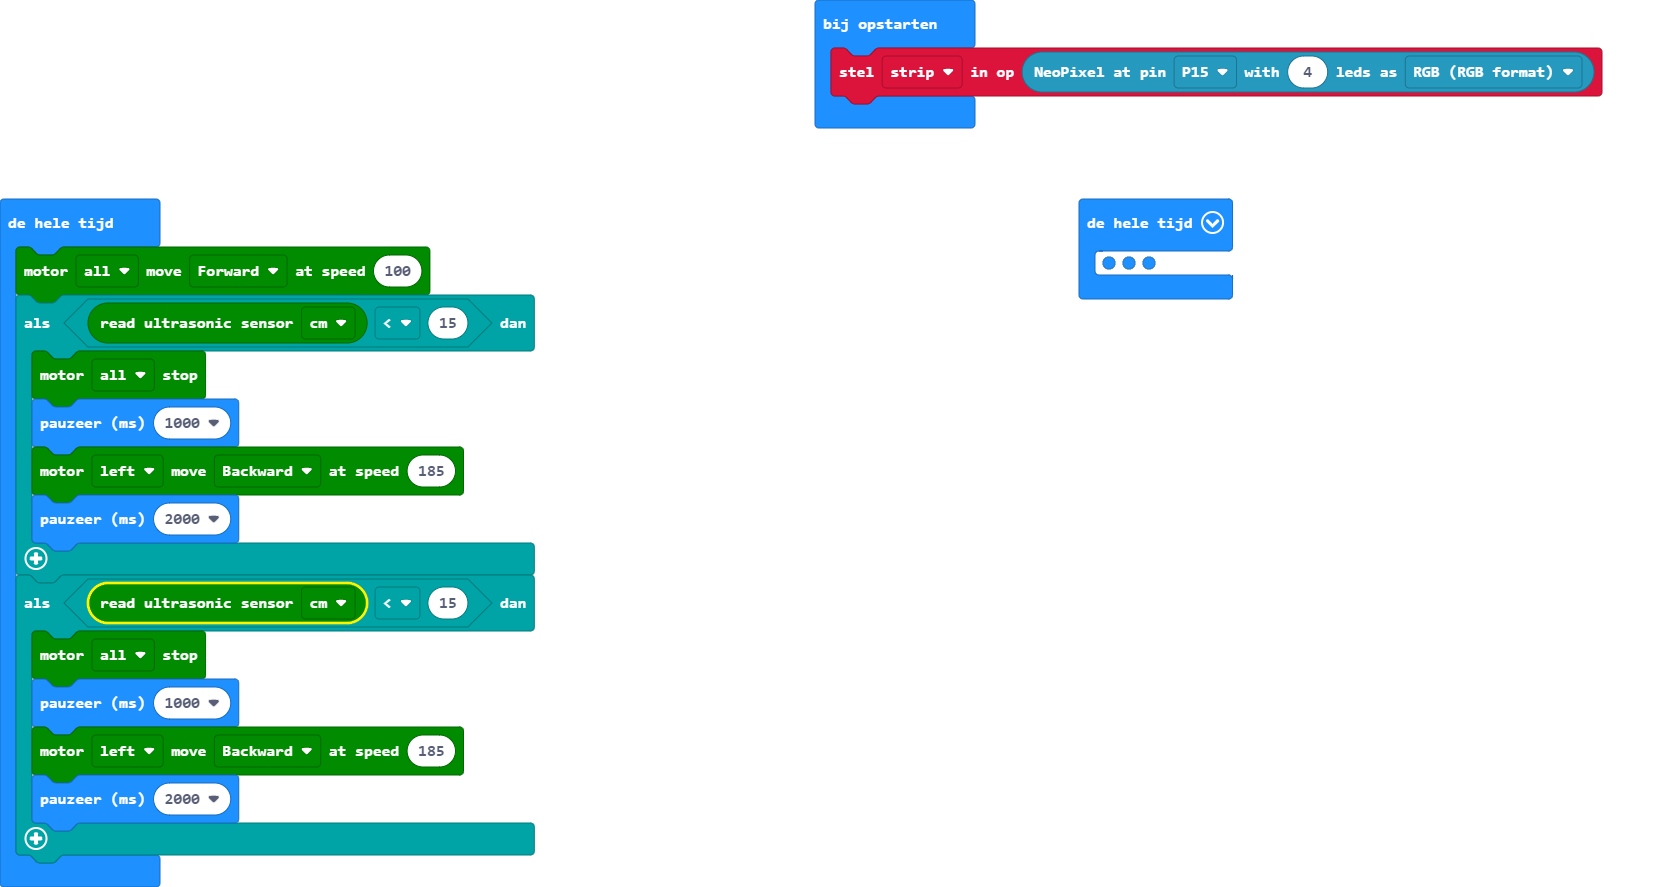
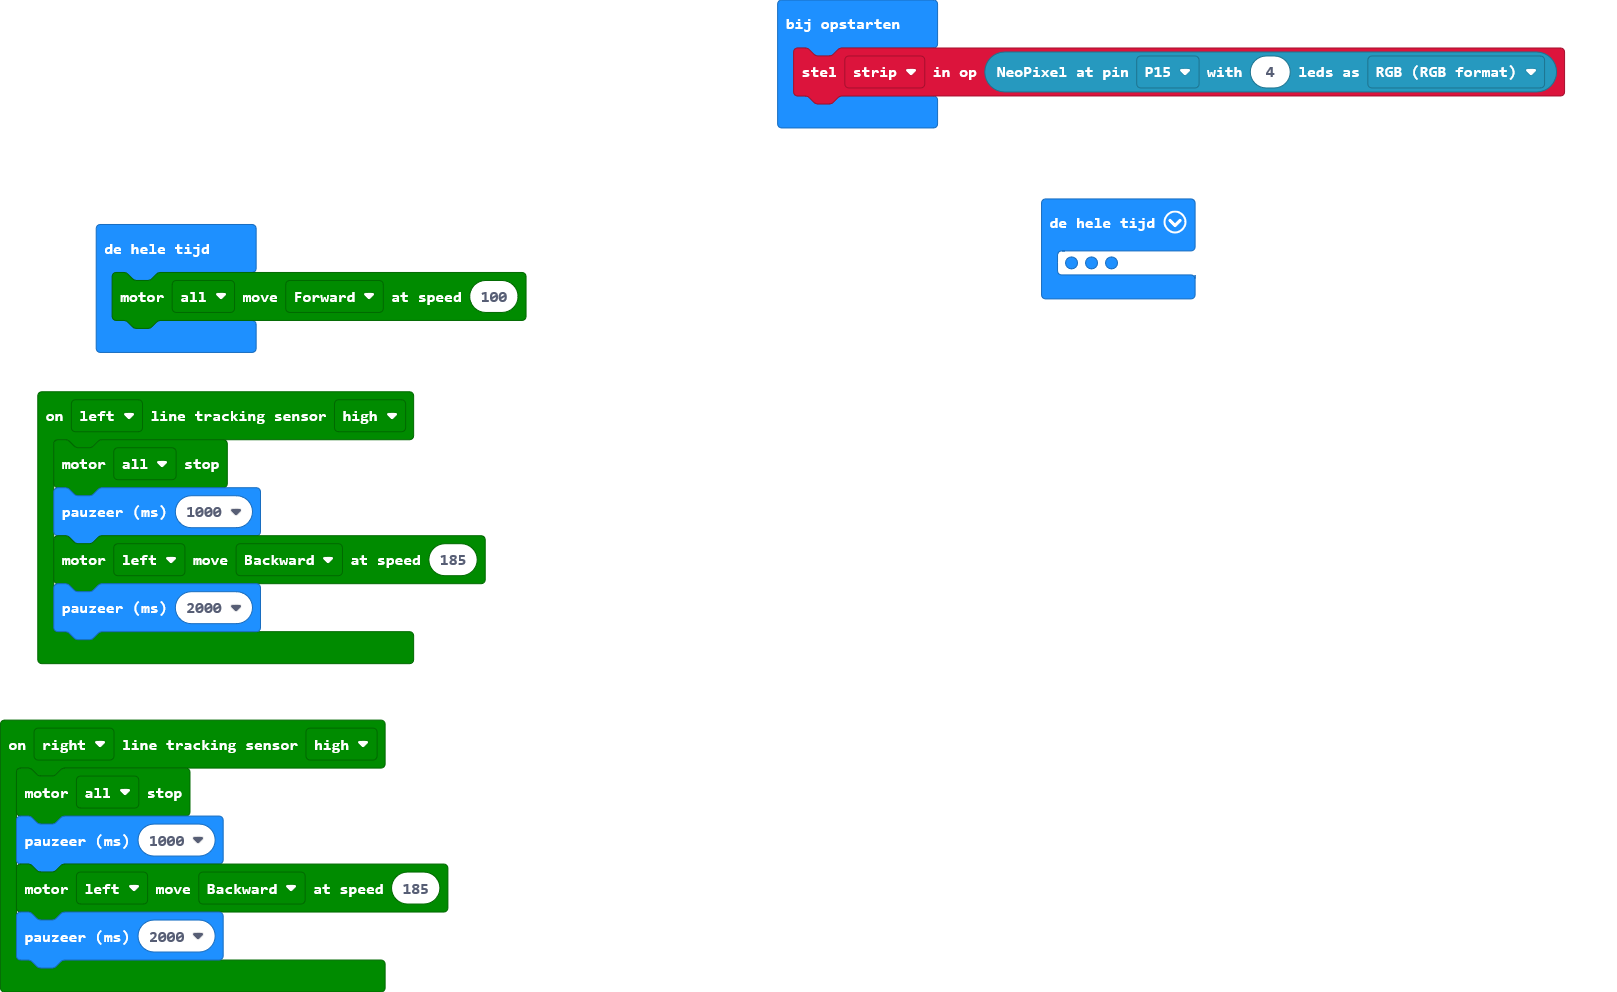
main.blocks, main.ts bijwerken

Changed region(s): [[0.0, 0.2131, 0.3401, 1.0], [0.4638, 0.0, 0.9895, 0.1522], [0.6184, 0.1826, 0.773, 0.3653]]

diff --git a/main.ts b/main.ts
@@ -1,18 +1,18 @@
+maqueen.ltEvent(maqueen.Patrol1.PatrolRight, maqueen.Voltage.High, function () {
+    maqueen.motorStop(maqueen.Motors.All)
+    basic.pause(1000)
+    maqueen.motorRun(maqueen.Motors.M1, maqueen.Dir.CCW, 185)
+    basic.pause(2000)
+})
+maqueen.ltEvent(maqueen.Patrol1.PatrolLeft, maqueen.Voltage.High, function () {
+    maqueen.motorStop(maqueen.Motors.All)
+    basic.pause(1000)
+    maqueen.motorRun(maqueen.Motors.M1, maqueen.Dir.CCW, 185)
+    basic.pause(2000)
+})
 let strip = neopixel.create(DigitalPin.P15, 4, NeoPixelMode.RGB_RGB)
 basic.forever(function () {
     maqueen.motorRun(maqueen.Motors.All, maqueen.Dir.CW, 100)
-    if (maqueen.Ultrasonic(PingUnit.Centimeters) < 15) {
-        maqueen.motorStop(maqueen.Motors.All)
-        basic.pause(1000)
-        maqueen.motorRun(maqueen.Motors.M1, maqueen.Dir.CCW, 185)
-        basic.pause(2000)
-    }
-    if (maqueen.Ultrasonic(PingUnit.Centimeters) < 15) {
-        maqueen.motorStop(maqueen.Motors.All)
-        basic.pause(1000)
-        maqueen.motorRun(maqueen.Motors.M1, maqueen.Dir.CCW, 185)
-        basic.pause(2000)
-    }
 })
 basic.forever(function () {
     strip.showColor(neopixel.colors(NeoPixelColors.Red))
